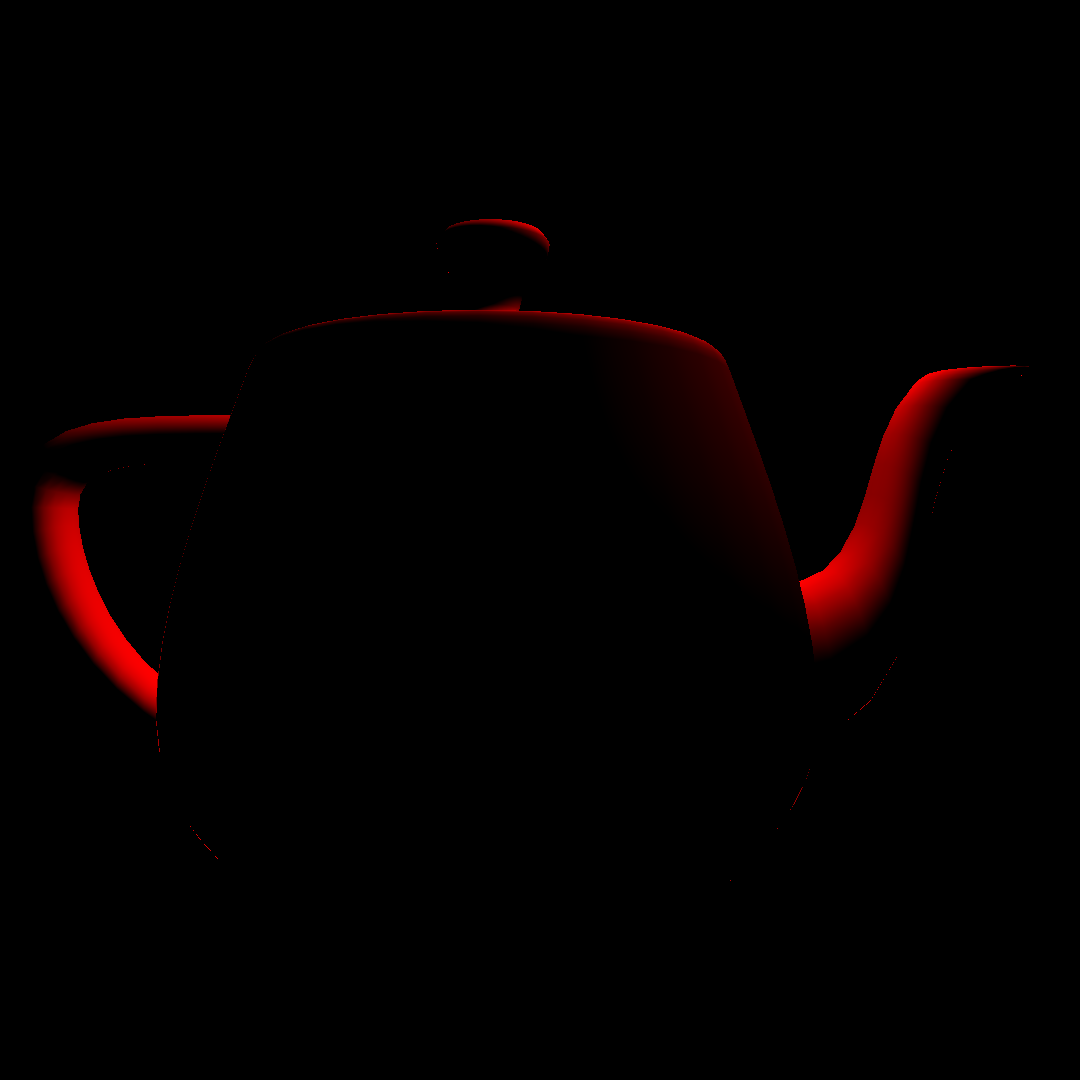
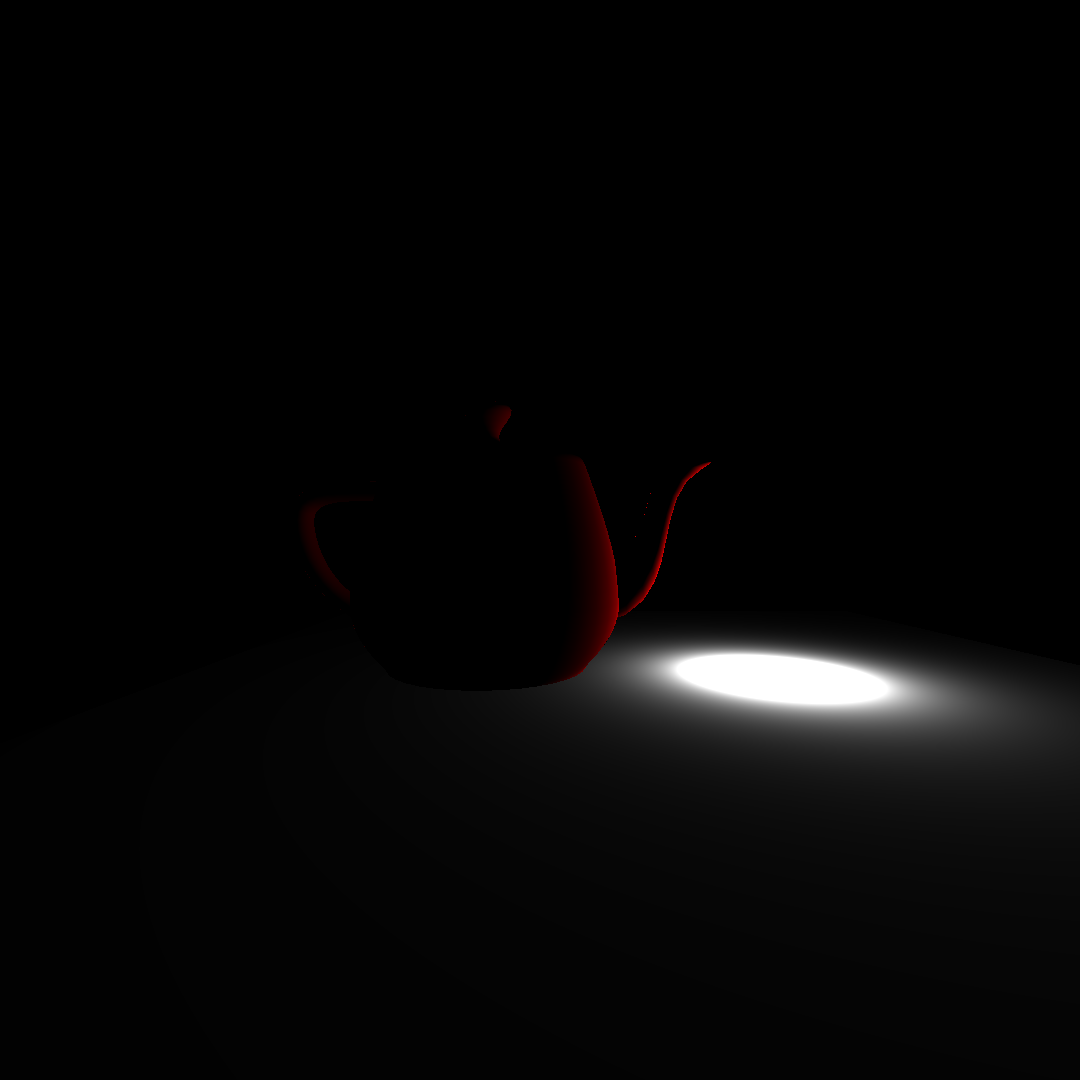
Add multithreaded rendering, attenuation, and stats
Introduce multithreaded rendering and light attenuation instrumentation.
also introduce new obj plane for better debugging for the light atenuation

diff --git a/src/up/raytracer/render/Raytracer.java b/src/up/raytracer/render/Raytracer.java
@@ -1,5 +1,6 @@
 package up.raytracer.render;
 
+import up.raytracer.camera.Camera;
 import up.raytracer.core.Intersection;
 import up.raytracer.core.Ray;
 import up.raytracer.core.Vector3D;
@@ -12,37 +13,103 @@ import java.awt.Color;
 import java.awt.image.BufferedImage;
 import java.io.File;
 import java.io.IOException;
+import java.util.ArrayList;
+import java.util.List;
 
-public class Raytracer {
+public class Raytracer{
 
     private final Scene scene;
-
+    private final RenderStats stats = new RenderStats();
     public Raytracer(Scene scene) {
         this.scene = scene;
     }
 
-    public BufferedImage render() {
-        int width  = scene.getCamera().getWidth();
-        int height = scene.getCamera().getHeight();
-        BufferedImage image = new BufferedImage(width, height, BufferedImage.TYPE_INT_RGB);
 
-        for (int y = 0; y < height; y++) {
-            for (int x = 0; x < width; x++) {
-                Ray ray = scene.getCamera().getRayForPixel(x, y);
-                image.setRGB(x, y, trace(ray).getRGB());
+    public BufferedImage render() {
+        stats.startTimer();
+        Camera camera = scene.getCamera();
+        List<Object3D> objects = scene.getObjects();
+        List<Light> lights = scene.getLights();
+
+        int width  = camera.getWidth();
+        int height = camera.getHeight();
+        stats.setTotalPixels(width, height);
+        stats.setRaysCast((long) width * height);
+        BufferedImage image = new BufferedImage(width, height, BufferedImage.TYPE_INT_RGB);
+        //amount of threads to use
+        int threadCount = Runtime.getRuntime().availableProcessors();
+        ArrayList<Thread> threads = new ArrayList<>();
+        //per thread counters for intersections
+        // I count how many intersections were tested and how many hits were found
+        long[][] threadCounters = new long[threadCount][2]; //tested, found
+        double near = camera.getNear();
+        double far = camera.getFar();
+
+        // create threads to render the image in parallel and check stats after all threads are done
+        for (int i = 0; i < threadCount; i++) {
+            int rowsPearThread = height/threadCount;
+            int startY = i * rowsPearThread;
+            int endY;
+
+
+            if(i == threadCount -1){
+                endY = height;
+            } else {
+                endY = startY + rowsPearThread;
             }
+
+            // need to be final or effectively final to be used in the lambda for Runnable
+            final int threadIndex = i;
+            final int threadStarty = startY;
+            final int threadEndY = endY;
+
+           Runnable task = () -> {
+               long[] localCounters = new long[] {0L, 0L}; // [tested, found]
+               for (int y = threadStarty; y < threadEndY; y++) {
+                   for (int x = 0; x < width; x++) {
+                       Ray ray = camera.getRayForPixel(x, y);
+                       image.setRGB(x, y, trace(ray, near, far, objects, lights, localCounters).getRGB());
+                   }
+               }
+               threadCounters[threadIndex][0] = localCounters[0];
+               threadCounters[threadIndex][1] = localCounters[1];
+           };
+
+            Thread thread = new Thread(task);
+           threads.add(thread);
         }
+
+        for (Thread thread : threads){
+            thread.start();
+        }
+
+        try {
+            for (Thread thread : threads){
+                thread.join();
+            }
+        } catch (InterruptedException e) {
+            throw new RuntimeException(e);
+        }
+
+        long intersectionsTested = 0;
+        long intersectionsFound = 0;
+        for (long[] threadCounter : threadCounters) {
+            intersectionsTested += threadCounter[0];
+            intersectionsFound += threadCounter[1];
+        }
+        stats.setIntersectionCounts(intersectionsTested, intersectionsFound);
+        stats.stopTimer();
+        System.out.println(stats);
         return image;
     }
 
     // trace the closest hit in the camera clip range
-    private Color trace(Ray ray) {
-        double near = scene.getCamera().getNear();
-        double far  = scene.getCamera().getFar();
+    private Color trace(Ray ray, double near, double far, List<Object3D> objects, List<Light> lights, long[] localCounters) {
         Intersection closest = null;
 
-        for (Object3D obj : scene.getObjects()) {
+        for (Object3D obj : objects) {
             Intersection hit = obj.calculateIntersection(ray);
+            localCounters[0]++;
 
             if (hit == null || hit.getDistance() < near || hit.getDistance() > far) continue;
 
@@ -53,11 +120,12 @@ public class Raytracer {
 
         if (closest == null) return scene.getBackgroundColor();
 
-        return shade(ray, closest);
+        localCounters[1]++;
+        return shade(ray, closest, lights);
     }
 
     // lambert diffuse with interpolated normals from the hit object
-    private Color shade(Ray ray, Intersection hit) {
+    private Color shade(Ray ray, Intersection hit, List<Light> lights) {
         Color    objectColor = hit.getObject().getColor();
         Vector3D N           = hit.getObject().getNormal(hit);
 
@@ -66,15 +134,14 @@ public class Raytracer {
 
         double r = 0.0, g = 0.0, b = 0.0;
 
-        for (Light light : scene.getLights()) {
+        for (Light light : lights) {
             Vector3D L = light.getDirectionAt(hit.getPosition()).negate();
             double NdotL = N.dot(L);
 
             if (NdotL <= 0) continue;
 
             Color  lc = light.getColor();
-            double li = light.getIntensity();
-
+            double li = light.getAttenuatedIntensity(hit.getPosition());
             r += (lc.getRed()   / 255.0) * (objectColor.getRed()   / 255.0) * li * NdotL;
             g += (lc.getGreen() / 255.0) * (objectColor.getGreen() / 255.0) * li * NdotL;
             b += (lc.getBlue()  / 255.0) * (objectColor.getBlue()  / 255.0) * li * NdotL;

diff --git a/src/up/raytracer/render/RenderStats.java b/src/up/raytracer/render/RenderStats.java
@@ -1,0 +1,60 @@
+package up.raytracer.render;
+
+//stats for debugging and testing, not used in the actual rendering
+public class RenderStats {
+
+    private long raysCast;
+    private long intersectionsTested;
+    private long intersectionsFound;
+    private long totalPixels;
+    private long startTime;
+    private long endTime;
+
+
+
+    public void setTotalPixels(int width, int height) {
+        this.totalPixels = (long) width * height;
+    }
+
+    public void setRaysCast(long raysCast) {
+        this.raysCast = raysCast;
+    }
+
+    public void setIntersectionCounts(long intersectionsTested, long intersectionsFound) {
+        this.intersectionsTested = intersectionsTested;
+        this.intersectionsFound = intersectionsFound;
+    }
+
+    public void startTimer(){
+       startTime =  System.nanoTime();
+    }
+
+    public void stopTimer(){
+       endTime = System.nanoTime();
+    }
+
+    @Override
+    public String toString() {
+        double elapsed = getElapsedSeconds();
+        //calculate rays per second in millions
+        double mraysPerSec = elapsed > 0.0 ? (raysCast / elapsed) / 1_000_000.0 : 0.0;
+        double testsPerRay = raysCast > 0 ? (double) intersectionsTested / raysCast : 0.0;
+        //check for division by zero and calculate hit rate as a percentage
+        double hitRate = raysCast > 0 ? (double) intersectionsFound / raysCast : 0.0;
+        return String.format(
+                "Pixels: %d, Rays: %d, Hits: %d (%.2f%%), Tests: %d, Tests/Ray: %.2f, Throughput: %.3f Mray/s, Time: %.4f s",
+                totalPixels,
+                raysCast,
+                intersectionsFound,
+                hitRate * 100.0,
+                intersectionsTested,
+                testsPerRay,
+                mraysPerSec,
+                elapsed
+        );
+    }
+
+    public double getElapsedSeconds() {
+        return (endTime - startTime) / 1_000_000_000.0;
+    }
+}

diff --git a/src/up/raytracer/Main.java b/src/up/raytracer/Main.java
@@ -15,17 +15,26 @@ import java.io.IOException;
 public class Main {
 
     public static void main(String[] args) throws IOException {
-        Camera camera = new Camera(new Vector3D(0, 0, -1), 1080, 1080, 60, 0.1, 1000.0);
+        Camera camera = new Camera(new Vector3D(0.0, -0.15, -1.2), 1080, 1080, 90, 0.1, 1000.0);
         Scene  scene  = new Scene(camera, Color.BLACK);
 
-        scene.addLight(new PointLight(Color.white, 1.0, new Vector3D(1,4,5)));
+        scene.addLight(new PointLight(Color.white, 8.0, new Vector3D(4, -1.5, 8)));
 
         for (Triangle t : OBJReader.load(
                 "assets/utah_teapot2.obj", //render a new obj because why not
                 new Color(255, 0, 0),
-                new Vector3D(-0.3, -2.0, 5.0),
+                new Vector3D(-0.8, -2.05, 7.1),
                 1.0
                 )){
+            scene.addObject(t);
+        }
+
+        for (Triangle t : OBJReader.load(
+                "assets/ground_plane.obj",
+                new Color(220, 220, 220),
+                new Vector3D(1.9, -2.45, 8.4),
+                1.0
+        )) {
             scene.addObject(t);
         }
 

diff --git a/src/up/raytracer/light/PointLight.java b/src/up/raytracer/light/PointLight.java
@@ -21,4 +21,16 @@ public class PointLight extends Light{
     public Vector3D getDirectionAt(Vector3D point) {
         return point.subtract(position).normalize();
     }
+
+    public double getDistanceAt(Vector3D point) {
+        return position.subtract(point).magnitude();
+    }
+
+   @Override
+    public double getAttenuatedIntensity(Vector3D point){
+        double distance = Math.max(getDistanceAt(point), 1e-3); //safe clamp to prevent division by 0
+        return getIntensity() / (distance * distance);
+    }
+
+
 }

diff --git a/src/up/raytracer/light/DirectionalLight.java b/src/up/raytracer/light/DirectionalLight.java
@@ -4,6 +4,8 @@ import up.raytracer.core.Vector3D;
 
 import java.awt.Color;
 
+
+
 //directional light acts like sunlight, with parallel rays everywhere in the scene
 public class DirectionalLight extends Light {
 
@@ -19,4 +21,10 @@ public class DirectionalLight extends Light {
     public Vector3D getDirectionAt(Vector3D point) {
         return direction;
     }
+
+   @Override
+   public double getAttenuatedIntensity(Vector3D point){
+    return getIntensity(); // no attenuation for directional light
+   }
+
 }

diff --git a/src/up/raytracer/light/Light.java b/src/up/raytracer/light/Light.java
@@ -27,4 +27,7 @@ public abstract class Light {
     //returns the direction the light travels at the given surface point
     //Lambert shading negates this when it needs the direction toward the light
     public abstract Vector3D getDirectionAt(Vector3D point);
+
+    public abstract double getAttenuatedIntensity(Vector3D point);
+
 }
